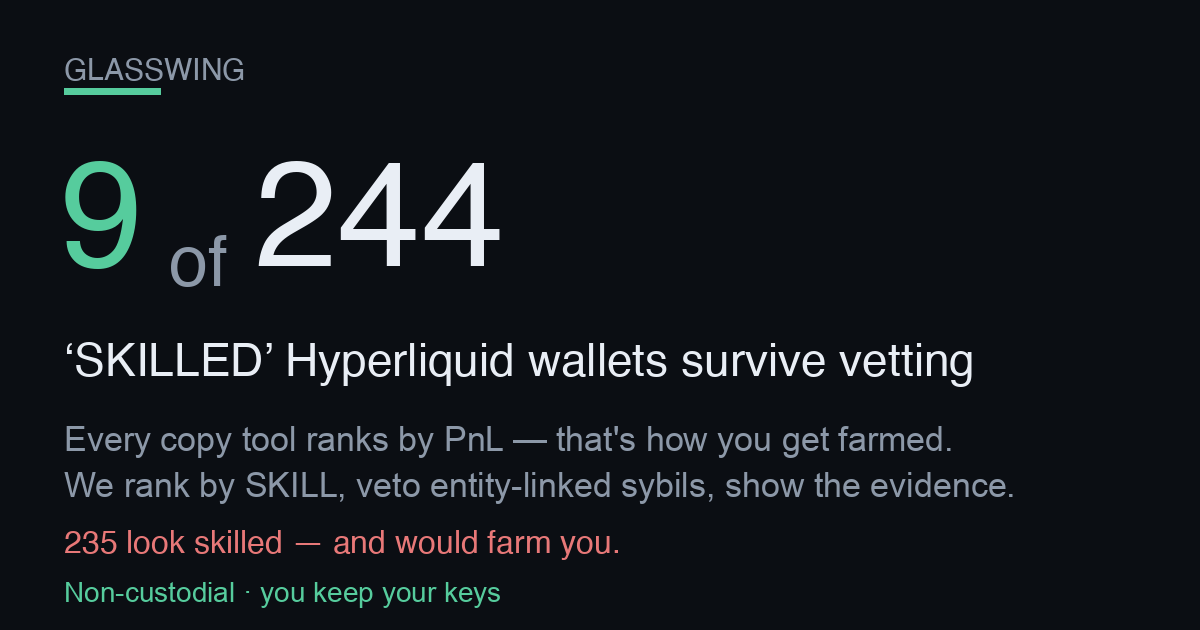
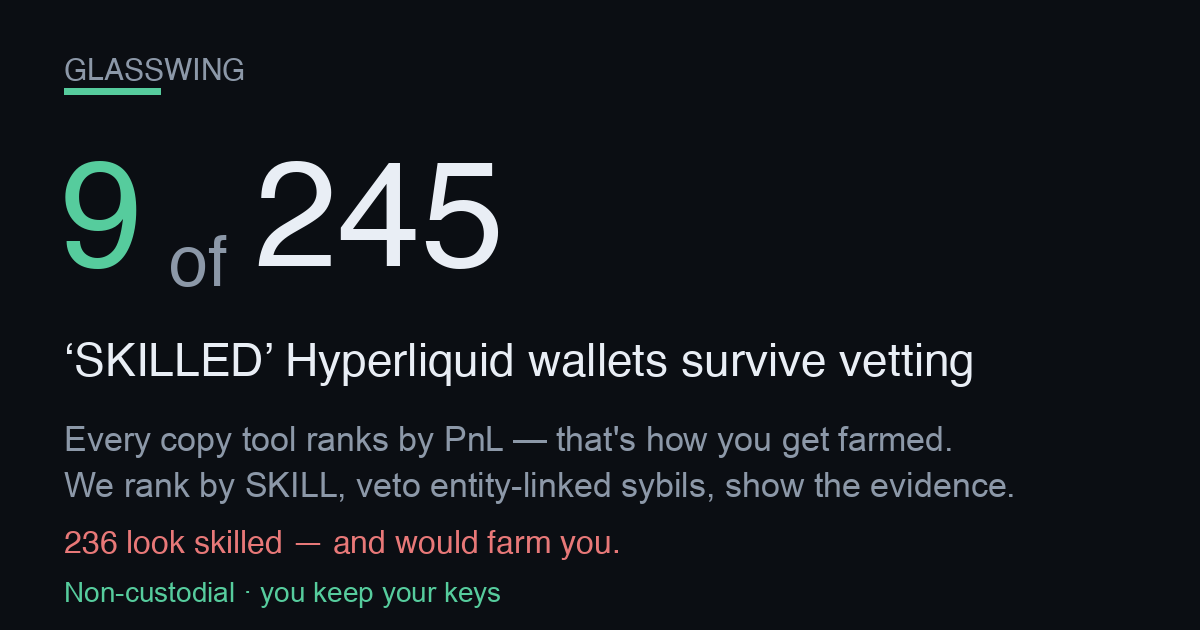
publish funnel 2026-08-17T09:34:27Z

Changed region(s): [[0.3392, 0.2413, 0.4317, 0.4524]]

diff --git a/screener.html b/screener.html
@@ -57,4 +57,4 @@ padding:11px 22px;font-size:15px;font-weight:800;border:1px solid var(--good)}
 footer{margin-top:34px;color:var(--muted);font-size:12px;line-height:1.6;
 border-top:1px solid var(--line);padding-top:16px}
 footer b{color:var(--ink)}
-</style></head><body><div class="wrap"><div class="nav"><a href="./index.html">&larr; Glasswing home</a><span class="sep">|</span><span>Edge Screener</span><span class="sep">|</span><a href="./dex.html">Copy a vetted leader</a></div><div class="hero"><h1>Hyperliquid Edge Screener</h1><div class="sub">Where&rsquo;s the carry, where a maker earns, and what&rsquo;s moving on Hyperliquid &mdash; live, computed from the public API. Bookmark it. Every number below is real and timestamped.</div><div class="stamp">Data as of <b>2026-08-17T03:24:02Z</b> &middot; rendered 2026-08-17T03:24:02Z &middot; 177 perps &middot; 94 HIP-3 (xyz) markets scanned</div></div><h2>Top funding &mdash; the carry table <span class="hint">perps ranked by annualized funding. Positive = longs pay shorts (a delta-neutral short earns it).</span></h2><div class="tblwrap"><table><thead><tr><th>Coin</th><th>Funding / hr</th><th>Annualized</th><th>Who pays</th><th>Open interest</th><th>24h volume</th></tr></thead><tbody><tr><td class="coin">ACE</td><td>-0.1071%</td><td class="neg">-938.1%</td><td><span class="tag shorts">shorts pay</span></td><td>$1.7M</td><td>$2.8M</td></tr><tr><td class="coin">XAI<span class="tag thin" title="Low liquidity/OI &mdash; ADL &amp; liquidation risk; funding can flip">&#9888; thin</span></td><td>-0.0181%</td><td class="neg">-159.0%</td><td><span class="tag shorts">shorts pay</span></td><td>$357K</td><td>$516K</td></tr><tr><td class="coin">STABLE</td><td>-0.0089%</td><td class="neg">-78.2%</td><td><span class="tag shorts">shorts pay</span></td><td>$1.5M</td><td>$767K</td></tr><tr><td class="coin">NIL</td><td>-0.0080%</td><td class="neg">-70.1%</td><td><span class="tag shorts">shorts pay</span></td><td>$772K</td><td>$1.1M</td></tr><tr><td class="coin">FARTCOIN</td><td>+0.0055%</td><td class="pos">+48.4%</td><td><span class="tag longs">longs pay</span></td><td>$30.6M</td><td>$5.3M</td></tr><tr><td class="coin">CASHCAT</td><td>+0.0049%</td><td class="pos">+42.4%</td><td><span class="tag longs">longs pay</span></td><td>$13.6M</td><td>$10.1M</td></tr><tr><td class="coin">KAITO</td><td>-0.0044%</td><td class="neg">-38.5%</td><td><span class="tag shorts">shorts pay</span></td><td>$5.9M</td><td>$11.4M</td></tr><tr><td class="coin">UMA<span class="tag thin" title="Low liquidity/OI &mdash; ADL &amp; liquidation risk; funding can flip">&#9888; thin</span></td><td>-0.0040%</td><td class="neg">-35.0%</td><td><span class="tag shorts">shorts pay</span></td><td>$364K</td><td>$67K</td></tr><tr><td class="coin">ALT<span class="tag thin" title="Low liquidity/OI &mdash; ADL &amp; liquidation risk; funding can flip">&#9888; thin</span></td><td>-0.0034%</td><td class="neg">-30.1%</td><td><span class="tag shorts">shorts pay</span></td><td>$659K</td><td>$82K</td></tr><tr><td class="coin">INJ</td><td>-0.0032%</td><td class="neg">-28.1%</td><td><span class="tag shorts">shorts pay</span></td><td>$2.9M</td><td>$902K</td></tr><tr><td class="coin">TIA</td><td>-0.0028%</td><td class="neg">-24.2%</td><td><span class="tag shorts">shorts pay</span></td><td>$1.5M</td><td>$428K</td></tr><tr><td class="coin">AIXBT<span class="tag thin" title="Low liquidity/OI &mdash; ADL &amp; liquidation risk; funding can flip">&#9888; thin</span></td><td>-0.0025%</td><td class="neg">-22.0%</td><td><span class="tag shorts">shorts pay</span></td><td>$500K</td><td>$132K</td></tr></tbody></table></div><h2>Widest HIP-3 spreads &mdash; where a maker earns <span class="hint">xyz: markets by impact-price spread vs the ~0.6bps round-trip fee. A resting limit order captures the gap.</span></h2><div class="tblwrap"><table><thead><tr><th>Market</th><th>Spread</th><th>vs 0.6bps fee</th><th>Mid</th><th>24h volume</th></tr></thead><tbody><tr><td class="coin">xyz:BIRD<span class="tag gm">growth</span></td><td>161.5 bps</td><td class="pos">+160.9 bps</td><td>2.5598</td><td>$7K</td></tr><tr><td class="coin">xyz:NCLD<span class="tag gm">growth</span></td><td>133.1 bps</td><td class="pos">+132.5 bps</td><td>27.4535</td><td>$249K</td></tr><tr><td class="coin">xyz:URNM<span class="tag gm">growth</span></td><td>77.7 bps</td><td class="pos">+77.1 bps</td><td>55.5575</td><td>$65K</td></tr><tr><td class="coin">xyz:GEV<span class="tag gm">growth</span></td><td>70.0 bps</td><td class="pos">+69.4 bps</td><td>1,065.90</td><td>$2K</td></tr><tr><td class="coin">xyz:PURRDAT</td><td>53.5 bps</td><td class="pos">+52.9 bps</td><td>7.1170</td><td>$5.4M</td></tr><tr><td class="coin">xyz:DKNG<span class="tag gm">growth</span></td><td>52.5 bps</td><td class="pos">+51.9 bps</td><td>26.1810</td><td>$34K</td></tr><tr><td class="coin">xyz:BOT<span class="tag gm">growth</span></td><td>51.0 bps</td><td class="pos">+50.4 bps</td><td>32.1395</td><td>$247K</td></tr><tr><td class="coin">xyz:EWT<span class="tag gm">growth</span></td><td>50.8 bps</td><td class="pos">+50.2 bps</td><td>107.6050</td><td>$125K</td></tr><tr><td class="coin">xyz:EBAY<span class="tag gm">growth</span></td><td>50.3 bps</td><td class="pos">+49.7 bps</td><td>104.2900</td><td>$16K</td></tr><tr><td class="coin">xyz:SHAZ<span class="tag gm">growth</span></td><td>48.5 bps</td><td class="pos">+47.9 bps</td><td>77.0965</td><td>$886K</td></tr><tr><td class="coin">xyz:GIGADEV<span class="tag gm">growth</span></td><td>45.8 bps</td><td class="pos">+45.2 bps</td><td>65.0325</td><td>$178K</td></tr><tr><td class="coin">xyz:SOFTBANK<span class="tag gm">growth</span></td><td>44.3 bps</td><td class="pos">+43.7 bps</td><td>36.3960</td><td>$201K</td></tr></tbody></table></div><h2>Momentum &amp; volume &mdash; what&rsquo;s moving <span class="hint">perps by 24h volume with the 24h price change (mark vs prior-day).</span></h2><div class="tblwrap"><table><thead><tr><th>Coin</th><th>24h volume</th><th>24h change</th><th>Mark</th></tr></thead><tbody><tr><td class="coin">BTC</td><td>$1.05B</td><td class="pos">+0.37%</td><td>63,332.00</td></tr><tr><td class="coin">ETH</td><td>$438.8M</td><td class="pos">+0.85%</td><td>1,898.84</td></tr><tr><td class="coin">HYPE</td><td>$136.7M</td><td class="pos">+3.21%</td><td>58.8310</td></tr><tr><td class="coin">SOL</td><td>$55.4M</td><td class="neg">-0.18%</td><td>75.4340</td></tr><tr><td class="coin">PUMP</td><td>$31.3M</td><td class="pos">+1.41%</td><td>0.002807</td></tr><tr><td class="coin">ZEC</td><td>$18.8M</td><td class="pos">+1.34%</td><td>492.6300</td></tr><tr><td class="coin">XRP</td><td>$18.7M</td><td class="neg">-0.09%</td><td>1.0009</td></tr><tr><td class="coin">KAITO</td><td>$11.4M</td><td class="neg">-3.72%</td><td>0.33865</td></tr><tr><td class="coin">LINK</td><td>$10.9M</td><td class="pos">+0.78%</td><td>9.5042</td></tr><tr><td class="coin">WLD</td><td>$10.5M</td><td class="pos">+4.60%</td><td>0.36596</td></tr><tr><td class="coin">CASHCAT</td><td>$10.1M</td><td class="neg">-13.65%</td><td>0.099803</td></tr><tr><td class="coin">BNB</td><td>$8.2M</td><td class="neg">-0.33%</td><td>603.9900</td></tr></tbody></table></div><div class="cta"><h2>These are the opportunities. Now copy the people who trade them.</h2><p class="lead">Spotting the carry and the spreads is the easy part &mdash; sizing, timing and risk are where most traders bleed. Copy the <b>skill-vetted</b> Hyperliquid leaders who actually trade these edges. Non-custodial: <b>you keep your keys and your funds</b> the entire time.</p><div class="row"><a class="btn" href="./index.html">See the vetted leaders &rarr;</a><a class="btn ghost" href="./dex.html">Start copying (non-custodial) &rarr;</a></div><div class="nc"><b>Non-custodial &amp; honest:</b> we never hold your keys or funds. Copying routes through a <b>0.01%</b> (1bp) on-chain builder fee &mdash; that is the only thing we ever charge, and it is the same fee shown on the copy page. Nothing on this screener is executed for you; it is information only.</div></div><footer><b>Not financial advice.</b> Funding rates, spreads and volumes are live snapshots that change every block; figures can be stale by the time you act. A high funding rate is <b>not free money</b> &mdash; the biggest rates sit on the thinnest, most crowded books (flagged &#9888; thin), where funding can flip against you and auto-deleveraging (ADL) or liquidation can close your position. &ldquo;Spread&rdquo; here is the impact-price spread (a conservative maker signal), not a guaranteed fill. HIP-3 markets are experimental. Do your own research and size responsibly. Glasswing is <b>non-custodial</b> &mdash; we never take custody of your keys or funds.</footer></div></body></html>
+</style></head><body><div class="wrap"><div class="nav"><a href="./index.html">&larr; Glasswing home</a><span class="sep">|</span><span>Edge Screener</span><span class="sep">|</span><a href="./dex.html">Copy a vetted leader</a></div><div class="hero"><h1>Hyperliquid Edge Screener</h1><div class="sub">Where&rsquo;s the carry, where a maker earns, and what&rsquo;s moving on Hyperliquid &mdash; live, computed from the public API. Bookmark it. Every number below is real and timestamped.</div><div class="stamp">Data as of <b>2026-08-17T09:29:59Z</b> &middot; rendered 2026-08-17T09:29:59Z &middot; 177 perps &middot; 94 HIP-3 (xyz) markets scanned</div></div><h2>Top funding &mdash; the carry table <span class="hint">perps ranked by annualized funding. Positive = longs pay shorts (a delta-neutral short earns it).</span></h2><div class="tblwrap"><table><thead><tr><th>Coin</th><th>Funding / hr</th><th>Annualized</th><th>Who pays</th><th>Open interest</th><th>24h volume</th></tr></thead><tbody><tr><td class="coin">ACE</td><td>-0.3148%</td><td class="neg">-2757.7%</td><td><span class="tag shorts">shorts pay</span></td><td>$1.9M</td><td>$2.7M</td></tr><tr><td class="coin">STABLE</td><td>-0.0234%</td><td class="neg">-205.2%</td><td><span class="tag shorts">shorts pay</span></td><td>$1.4M</td><td>$807K</td></tr><tr><td class="coin">MON</td><td>-0.0105%</td><td class="neg">-92.0%</td><td><span class="tag shorts">shorts pay</span></td><td>$25.4M</td><td>$3.7M</td></tr><tr><td class="coin">AXS<span class="tag thin" title="Low liquidity/OI &mdash; ADL &amp; liquidation risk; funding can flip">&#9888; thin</span></td><td>-0.0074%</td><td class="neg">-64.9%</td><td><span class="tag shorts">shorts pay</span></td><td>$253K</td><td>$173K</td></tr><tr><td class="coin">XAI<span class="tag thin" title="Low liquidity/OI &mdash; ADL &amp; liquidation risk; funding can flip">&#9888; thin</span></td><td>-0.0064%</td><td class="neg">-55.8%</td><td><span class="tag shorts">shorts pay</span></td><td>$346K</td><td>$322K</td></tr><tr><td class="coin">2Z<span class="tag thin" title="Low liquidity/OI &mdash; ADL &amp; liquidation risk; funding can flip">&#9888; thin</span></td><td>-0.0052%</td><td class="neg">-45.9%</td><td><span class="tag shorts">shorts pay</span></td><td>$601K</td><td>$191K</td></tr><tr><td class="coin">FARTCOIN</td><td>+0.0037%</td><td class="pos">+32.1%</td><td><span class="tag longs">longs pay</span></td><td>$30.4M</td><td>$5.0M</td></tr><tr><td class="coin">KAITO</td><td>-0.0035%</td><td class="neg">-30.6%</td><td><span class="tag shorts">shorts pay</span></td><td>$6.0M</td><td>$7.5M</td></tr><tr><td class="coin">TRUMP</td><td>-0.0034%</td><td class="neg">-30.2%</td><td><span class="tag shorts">shorts pay</span></td><td>$6.9M</td><td>$1.4M</td></tr><tr><td class="coin">ADA</td><td>-0.0034%</td><td class="neg">-30.0%</td><td><span class="tag shorts">shorts pay</span></td><td>$29.2M</td><td>$4.4M</td></tr><tr><td class="coin">ALGO</td><td>-0.0030%</td><td class="neg">-26.2%</td><td><span class="tag shorts">shorts pay</span></td><td>$1.9M</td><td>$279K</td></tr><tr><td class="coin">SEI<span class="tag thin" title="Low liquidity/OI &mdash; ADL &amp; liquidation risk; funding can flip">&#9888; thin</span></td><td>-0.0027%</td><td class="neg">-23.3%</td><td><span class="tag shorts">shorts pay</span></td><td>$1.3M</td><td>$240K</td></tr></tbody></table></div><h2>Widest HIP-3 spreads &mdash; where a maker earns <span class="hint">xyz: markets by impact-price spread vs the ~0.6bps round-trip fee. A resting limit order captures the gap.</span></h2><div class="tblwrap"><table><thead><tr><th>Market</th><th>Spread</th><th>vs 0.6bps fee</th><th>Mid</th><th>24h volume</th></tr></thead><tbody><tr><td class="coin">xyz:BIRD<span class="tag gm">growth</span></td><td>176.5 bps</td><td class="pos">+175.9 bps</td><td>2.5600</td><td>$10K</td></tr><tr><td class="coin">xyz:GIGADEV<span class="tag gm">growth</span></td><td>160.3 bps</td><td class="pos">+159.7 bps</td><td>66.5375</td><td>$267K</td></tr><tr><td class="coin">xyz:NCLD<span class="tag gm">growth</span></td><td>96.3 bps</td><td class="pos">+95.7 bps</td><td>27.6810</td><td>$288K</td></tr><tr><td class="coin">xyz:URNM<span class="tag gm">growth</span></td><td>87.6 bps</td><td class="pos">+87.0 bps</td><td>55.3795</td><td>$90K</td></tr><tr><td class="coin">xyz:GEV<span class="tag gm">growth</span></td><td>80.2 bps</td><td class="pos">+79.6 bps</td><td>1,077.85</td><td>$10K</td></tr><tr><td class="coin">xyz:EWZ<span class="tag gm">growth</span></td><td>75.0 bps</td><td class="pos">+74.4 bps</td><td>34.0070</td><td>$19K</td></tr><tr><td class="coin">xyz:ZM<span class="tag gm">growth</span></td><td>52.4 bps</td><td class="pos">+51.8 bps</td><td>105.4450</td><td>$38K</td></tr><tr><td class="coin">xyz:BOT<span class="tag gm">growth</span></td><td>47.7 bps</td><td class="pos">+47.1 bps</td><td>32.1950</td><td>$397K</td></tr><tr><td class="coin">xyz:EBAY<span class="tag gm">growth</span></td><td>46.5 bps</td><td class="pos">+45.9 bps</td><td>103.4050</td><td>$40K</td></tr><tr><td class="coin">xyz:DKNG<span class="tag gm">growth</span></td><td>45.9 bps</td><td class="pos">+45.3 bps</td><td>26.1160</td><td>$29K</td></tr><tr><td class="coin">xyz:EWT<span class="tag gm">growth</span></td><td>45.1 bps</td><td class="pos">+44.5 bps</td><td>108.1200</td><td>$130K</td></tr><tr><td class="coin">xyz:BX<span class="tag gm">growth</span></td><td>40.7 bps</td><td class="pos">+40.1 bps</td><td>144.2500</td><td>$130K</td></tr></tbody></table></div><h2>Momentum &amp; volume &mdash; what&rsquo;s moving <span class="hint">perps by 24h volume with the 24h price change (mark vs prior-day).</span></h2><div class="tblwrap"><table><thead><tr><th>Coin</th><th>24h volume</th><th>24h change</th><th>Mark</th></tr></thead><tbody><tr><td class="coin">BTC</td><td>$1.29B</td><td class="pos">+0.47%</td><td>63,348.00</td></tr><tr><td class="coin">ETH</td><td>$496.7M</td><td class="pos">+0.74%</td><td>1,895.10</td></tr><tr><td class="coin">HYPE</td><td>$176.9M</td><td class="pos">+3.07%</td><td>59.1680</td></tr><tr><td class="coin">SOL</td><td>$65.3M</td><td class="neg">-0.05%</td><td>75.3560</td></tr><tr><td class="coin">PUMP</td><td>$45.5M</td><td class="pos">+4.15%</td><td>0.002889</td></tr><tr><td class="coin">ZEC</td><td>$38.3M</td><td class="pos">+4.32%</td><td>510.2500</td></tr><tr><td class="coin">XRP</td><td>$22.1M</td><td class="neg">-0.41%</td><td>0.99775</td></tr><tr><td class="coin">LINK</td><td>$11.6M</td><td class="neg">-0.14%</td><td>9.4056</td></tr><tr><td class="coin">CASHCAT</td><td>$11.3M</td><td class="neg">-14.32%</td><td>0.10563</td></tr><tr><td class="coin">WLD</td><td>$11.1M</td><td class="pos">+3.44%</td><td>0.35984</td></tr><tr><td class="coin">SUI</td><td>$7.7M</td><td class="neg">-0.28%</td><td>0.67604</td></tr><tr><td class="coin">XMR</td><td>$7.5M</td><td class="pos">+2.15%</td><td>418.2700</td></tr></tbody></table></div><div class="cta"><h2>These are the opportunities. Now copy the people who trade them.</h2><p class="lead">Spotting the carry and the spreads is the easy part &mdash; sizing, timing and risk are where most traders bleed. Copy the <b>skill-vetted</b> Hyperliquid leaders who actually trade these edges. Non-custodial: <b>you keep your keys and your funds</b> the entire time.</p><div class="row"><a class="btn" href="./index.html">See the vetted leaders &rarr;</a><a class="btn ghost" href="./dex.html">Start copying (non-custodial) &rarr;</a></div><div class="nc"><b>Non-custodial &amp; honest:</b> we never hold your keys or funds. Copying routes through a <b>0.01%</b> (1bp) on-chain builder fee &mdash; that is the only thing we ever charge, and it is the same fee shown on the copy page. Nothing on this screener is executed for you; it is information only.</div></div><footer><b>Not financial advice.</b> Funding rates, spreads and volumes are live snapshots that change every block; figures can be stale by the time you act. A high funding rate is <b>not free money</b> &mdash; the biggest rates sit on the thinnest, most crowded books (flagged &#9888; thin), where funding can flip against you and auto-deleveraging (ADL) or liquidation can close your position. &ldquo;Spread&rdquo; here is the impact-price spread (a conservative maker signal), not a guaranteed fill. HIP-3 markets are experimental. Do your own research and size responsibly. Glasswing is <b>non-custodial</b> &mdash; we never take custody of your keys or funds.</footer></div></body></html>

diff --git a/track.html b/track.html
@@ -62,7 +62,7 @@ font-weight:600;font-size:14px}
 <div class="wrap">
   <div class="hero">
     <h1>Self-verifying on-chain track record</h1>
-    <div class="big">$211.03</div>
+    <div class="big">$209.90</div>
     <div class="sub">current on-chain equity (perp + vault + spot USDC)</div>
     <div class="addr">0xbe6C1b09662BbE52CC93279D103Feb27985DdBc1</div>
     <div class="stage early">29 days live — EARLY / NOT YET A MATURE RECORD</div>
@@ -72,25 +72,25 @@ font-weight:600;font-size:14px}
 
   <h2>On-chain figures <span style="color:var(--muted);font-weight:400;font-size:13px">
   &mdash; every one reproducible from the public info API</span></h2>
-  <table><tbody><tr><td class="k">On-chain equity (perp + vault + spot USDC)</td><td class="v">$211.03</td></tr><tr><td class="k">Perp account value</td><td class="v">$160.28</td></tr><tr><td class="k">Vault equity</td><td class="v">$50.20</td></tr><tr><td class="k">Spot USDC</td><td class="v">$0.55</td></tr><tr><td class="k">Withdrawable</td><td class="v">$0.38</td></tr></tbody></table>
+  <table><tbody><tr><td class="k">On-chain equity (perp + vault + spot USDC)</td><td class="v">$209.90</td></tr><tr><td class="k">Perp account value</td><td class="v">$159.27</td></tr><tr><td class="k">Vault equity</td><td class="v">$50.08</td></tr><tr><td class="k">Spot USDC</td><td class="v">$0.55</td></tr><tr><td class="k">Withdrawable</td><td class="v">$0.89</td></tr></tbody></table>
 
-  <h2>Vault deposits (on-chain)</h2><table><thead><tr><th>Vault address</th><th>Our equity</th></tr></thead><tbody><tr><td class="mono">0x2431edfcb662e6ff6deab113cc91878a0b53fb0f</td><td class="v">$0.01</td></tr><tr><td class="mono">0x697bc3dd77539fa84156d0e1c95287ea5524fd6b</td><td class="v">$25.43</td></tr><tr><td class="mono">0x8825e6ed11c7f9c0874579c9f4bba192b9e81c8f</td><td class="v">$0.12</td></tr><tr><td class="mono">0xc71f5a493b937e4b1798b86510630336a6dfd804</td><td class="v">$24.64</td></tr></tbody></table>
+  <h2>Vault deposits (on-chain)</h2><table><thead><tr><th>Vault address</th><th>Our equity</th></tr></thead><tbody><tr><td class="mono">0x2431edfcb662e6ff6deab113cc91878a0b53fb0f</td><td class="v">$0.01</td></tr><tr><td class="mono">0x697bc3dd77539fa84156d0e1c95287ea5524fd6b</td><td class="v">$25.36</td></tr><tr><td class="mono">0x8825e6ed11c7f9c0874579c9f4bba192b9e81c8f</td><td class="v">$0.12</td></tr><tr><td class="mono">0xc71f5a493b937e4b1798b86510630336a6dfd804</td><td class="v">$24.60</td></tr></tbody></table>
 
   <h2>Performance <span style="color:var(--muted);font-weight:400;font-size:13px">
   &mdash; honest stage, no annualization</span></h2>
-  <table><tbody><tr><td class="k">Days live (our formal record)</td><td class="v">29</td></tr><tr><td class="k">Maturity</td><td class="v">EARLY / NOT YET A MATURE RECORD</td></tr><tr><td class="k">Current real strategy income / day</td><td class="v">$3.3635</td></tr><tr><td class="k">Cumulative net income (if attributed)</td><td class="v">$34.4955</td></tr><tr><td class="k">Annualized APR</td><td class="v">intentionally NOT computed (record too young)</td></tr></tbody></table>
+  <table><tbody><tr><td class="k">Days live (our formal record)</td><td class="v">29</td></tr><tr><td class="k">Maturity</td><td class="v">EARLY / NOT YET A MATURE RECORD</td></tr><tr><td class="k">Current real strategy income / day</td><td class="v">$3.2820</td></tr><tr><td class="k">Cumulative net income (if attributed)</td><td class="v">$35.0916</td></tr><tr><td class="k">Annualized APR</td><td class="v">intentionally NOT computed (record too young)</td></tr></tbody></table>
 
   <h2>Strategy arms <span style="color:var(--muted);font-weight:400;font-size:13px">
   &mdash; internal marks, cross-checkable against chain equity</span></h2>
-  <table><thead><tr><th>Arm</th><th>Status</th><th>Real / day</th><th>Note</th></tr></thead><tbody><tr><td class="v">carry</td><td><span class="badge live">live</span></td><td class="v">$3.3635</td><td class="k"></td></tr><tr><td class="v">copy</td><td><span class="badge live">live</span></td><td class="v">$0.0000</td><td class="k"></td></tr><tr><td class="v">builder</td><td><span class="badge off">—</span></td><td class="v">$0.0000</td><td class="k">proven live; $0 until distributed (∝ users&#x27; volume)</td></tr></tbody></table>
+  <table><thead><tr><th>Arm</th><th>Status</th><th>Real / day</th><th>Note</th></tr></thead><tbody><tr><td class="v">carry</td><td><span class="badge live">live</span></td><td class="v">$3.2820</td><td class="k"></td></tr><tr><td class="v">copy</td><td><span class="badge live">live</span></td><td class="v">$0.0000</td><td class="k"></td></tr><tr><td class="v">builder</td><td><span class="badge off">—</span></td><td class="v">$0.0000</td><td class="k">proven live; $0 until distributed (∝ users&#x27; volume)</td></tr></tbody></table>
 
   <h2>Reproduce it</h2>
   <div class="verify"><h3>Verify this yourself</h3><p>These are PUBLIC calls. Run them yourself against the address below and you will re-derive every on-chain figure on this page. equity_usd = perp accountValue + vault equity + spot USDC. Endpoint: https://api.hyperliquid.xyz/info</p><div class="cn">clearinghouseState &rarr; marginSummary.accountValue (perp value), withdrawable, marginSummary.totalMarginUsed</div><pre>curl -s -X POST https://api.hyperliquid.xyz/info -H &#x27;Content-Type: application/json&#x27; -d &#x27;{&quot;type&quot;: &quot;clearinghouseState&quot;, &quot;user&quot;: &quot;0xbe6C1b09662BbE52CC93279D103Feb27985DdBc1&quot;}&#x27;</pre><div class="cn">userVaultEquities &rarr; sum of each entry&#x27;s equity (our vault deposits)</div><pre>curl -s -X POST https://api.hyperliquid.xyz/info -H &#x27;Content-Type: application/json&#x27; -d &#x27;{&quot;type&quot;: &quot;userVaultEquities&quot;, &quot;user&quot;: &quot;0xbe6C1b09662BbE52CC93279D103Feb27985DdBc1&quot;}&#x27;</pre><div class="cn">spotClearinghouseState &rarr; balances[] where coin==USDC -&gt; total (spot USDC)</div><pre>curl -s -X POST https://api.hyperliquid.xyz/info -H &#x27;Content-Type: application/json&#x27; -d &#x27;{&quot;type&quot;: &quot;spotClearinghouseState&quot;, &quot;user&quot;: &quot;0xbe6C1b09662BbE52CC93279D103Feb27985DdBc1&quot;}&#x27;</pre></div>
 
   <footer>
     <div>Self-verifying: every on-chain figure is reproducible by querying Hyperliquid&#x27;s public info API for the stated address. Internal daily marks are cross-checkable against on-chain equity. EARLY-STAGE record — not a mature track record, not an APR promise, not financial advice. Past performance != future results.</div>
-    <div class="stamp">Generated at 2026-08-17T03:23:14Z &middot; internal marks
-    mtime 2026-08-17T02:44:08Z &middot; static receipt, no live
+    <div class="stamp">Generated at 2026-08-17T09:27:41Z &middot; internal marks
+    mtime 2026-08-17T08:44:18Z &middot; static receipt, no live
     authority — this page never trades or arms.</div>
   </footer>
 </div>

diff --git a/index.html b/index.html
@@ -3,8 +3,8 @@
 <head>
 <meta charset="utf-8">
 <meta name="viewport" content="width=device-width, initial-scale=1">
-<title>9 of 244 SKILLED Hyperliquid wallets survive vetting</title>
-<meta name="description" content="9 of 244 leaderboard-SKILLED Hyperliquid wallets survive vetting. Copy only the survivors, non-custodial — you keep your keys and funds.">
+<title>9 of 245 SKILLED Hyperliquid wallets survive vetting</title>
+<meta name="description" content="9 of 245 leaderboard-SKILLED Hyperliquid wallets survive vetting. Copy only the survivors, non-custodial — you keep your keys and funds.">
 <link rel="canonical" href="https://dynobit.github.io/glasswing/">
 <meta name="robots" content="index,follow">
 <meta name="theme-color" content="#0b0e13">
@@ -14,14 +14,14 @@
      head, not this. og:url is the canonical Pages home so every share resolves here. -->
 <meta property="og:type" content="website">
 <meta property="og:site_name" content="Glasswing">
-<meta property="og:title" content="9 of 244 SKILLED Hyperliquid wallets survive vetting">
+<meta property="og:title" content="9 of 245 SKILLED Hyperliquid wallets survive vetting">
 <meta property="og:description" content="Every copy tool ranks leaders by PnL — which is how you get farmed. This ranks by SKILL, then vetoes entity-linked sybils, and shows the evidence for every reject. Non-custodial: you keep your keys.">
 <meta property="og:url" content="https://dynobit.github.io/glasswing/">
 <meta property="og:image" content="https://dynobit.github.io/glasswing/og-card.png">
 <meta property="og:image:width" content="1200">
 <meta property="og:image:height" content="630">
 <meta name="twitter:card" content="summary_large_image">
-<meta name="twitter:title" content="9 of 244 SKILLED Hyperliquid wallets survive vetting">
+<meta name="twitter:title" content="9 of 245 SKILLED Hyperliquid wallets survive vetting">
 <meta name="twitter:description" content="Skill-ranked (not PnL-ranked) HL copy-leaders, entity-linked sybils vetoed with evidence. Non-custodial.">
 <meta name="twitter:image" content="https://dynobit.github.io/glasswing/og-card.png">
 <style>
@@ -135,18 +135,18 @@ footer .nc{color:var(--good);font-weight:600}
 
   <!-- 1. HERO — the shareable hook (screenshot-worthy) -->
   <div class="hero">
-    <h1><span class="big">9 of 244</span> &lsquo;SKILLED&rsquo;
+    <h1><span class="big">9 of 245</span> &lsquo;SKILLED&rsquo;
     Hyperliquid wallets survive vetting</h1>
-    <div class="sub">The other <span class="trap">235</span> look skilled on a
+    <div class="sub">The other <span class="trap">236</span> look skilled on a
     raw copy leaderboard but would farm you &mdash; here are the
-    <span class="trap">235</span> that would. Entity-linked sybils,
+    <span class="trap">236</span> that would. Entity-linked sybils,
     wash-traded track records, or simply unscreened. 3.7% survive.
-    Universe: 2044 scored wallets.</div>
+    Universe: 2063 scored wallets.</div>
   </div>
 
   <!-- 2. THE WEDGE — the marketing (why us, not any other copy tool) -->
   <div class="wedge"><span class="them">Every other copy tool ranks all
-    244 by PnL and calls it a leaderboard.</span> We are the only one that
+    245 by PnL and calls it a leaderboard.</span> We are the only one that
     <b>flags the entity-linked and farming wallets with on-chain evidence</b> &mdash;
     transfer-graph linkage between wallets and arXiv memecoin farm-features &mdash;
     and shows you only the 9 that survive. A high PnL is exactly what a
@@ -268,7 +268,7 @@ footer .nc{color:var(--good);font-weight:600}
   <footer>
     <div class="nc">Non-custodial: we never hold your keys or funds. No server, no backend. Your browser talks only to Hyperliquid&#x27;s public API.</div>
     <div>Advisory. Skill = sign-randomization null vs luck. Entity veto = public transfer-graph linkage. Farm screen = arXiv:2601.08641 features (memecoin thresholds, HL-uncalibrated). Follower-realizable PnL is NOT yet proven — a PRE-COMMITTED forward test is in progress (0/2 windows, earliest 2026-08-13); the copyability claim publishes only when the pre-registered windows close, so it cannot be discovery-mined. Exit-alpha shown is advisory. Not financial advice.</div>
-    <div class="stamp">Generated at 2026-08-17T03:23:39Z &middot; single-file funnel,
+    <div class="stamp">Generated at 2026-08-17T09:28:24Z &middot; single-file funnel,
     no live authority. In-browser order signing is IMPLEMENTED (real secp256k1 +
     keccak + msgpack EIP-712 from a pinned CDN) but UNVALIDATED against Hyperliquid:
     mainnet is blocked until a testnet order is proven accepted.</div>

diff --git a/dex.html b/dex.html
@@ -112,8 +112,8 @@ footer .nc{color:var(--good);font-weight:600}
     funds and your keys the whole time. Two signatures in your own wallet, an
     ephemeral in-browser agent key that can trade but never withdraw, and a
     client-side loop that mirrors only the
-    <b>9 of 244</b> vetted survivors
-    (universe: 2044 scored wallets). No server, no backend.</div>
+    <b>9 of 245</b> vetted survivors
+    (universe: 2063 scored wallets). No server, no backend.</div>
     <div class="tag">static bundle &middot; IPFS-publishable &middot; revenue accrues on-chain</div>
   </div>
 
@@ -217,7 +217,7 @@ footer .nc{color:var(--good);font-weight:600}
   <footer>
     <div class="nc">Pure DEX, self-custodial. No server, no backend, no key we ever hold. Your browser talks only to Hyperliquid&#x27;s public API.</div>
     <div>Advisory. Skill = sign-randomization null vs luck. Entity veto = public transfer-graph linkage. Farm screen = arXiv:2601.08641 features (memecoin thresholds, HL-uncalibrated). Follower-realizable PnL is NOT yet proven — a PRE-COMMITTED forward test is in progress (0/2 windows, earliest 2026-08-13); the copyability claim publishes only when the pre-registered windows close, so it cannot be discovery-mined. Exit-alpha shown is advisory. Not financial advice.</div>
-    <div class="stamp">Generated at 2026-08-17T03:23:39Z &middot; static,
+    <div class="stamp">Generated at 2026-08-17T09:28:24Z &middot; static,
     self-custodial surface, no live authority. In-browser order signing is
     IMPLEMENTED (real secp256k1 + keccak + msgpack EIP-712 from a pinned CDN) but
     UNVALIDATED against Hyperliquid: mainnet is blocked until a testnet order is
